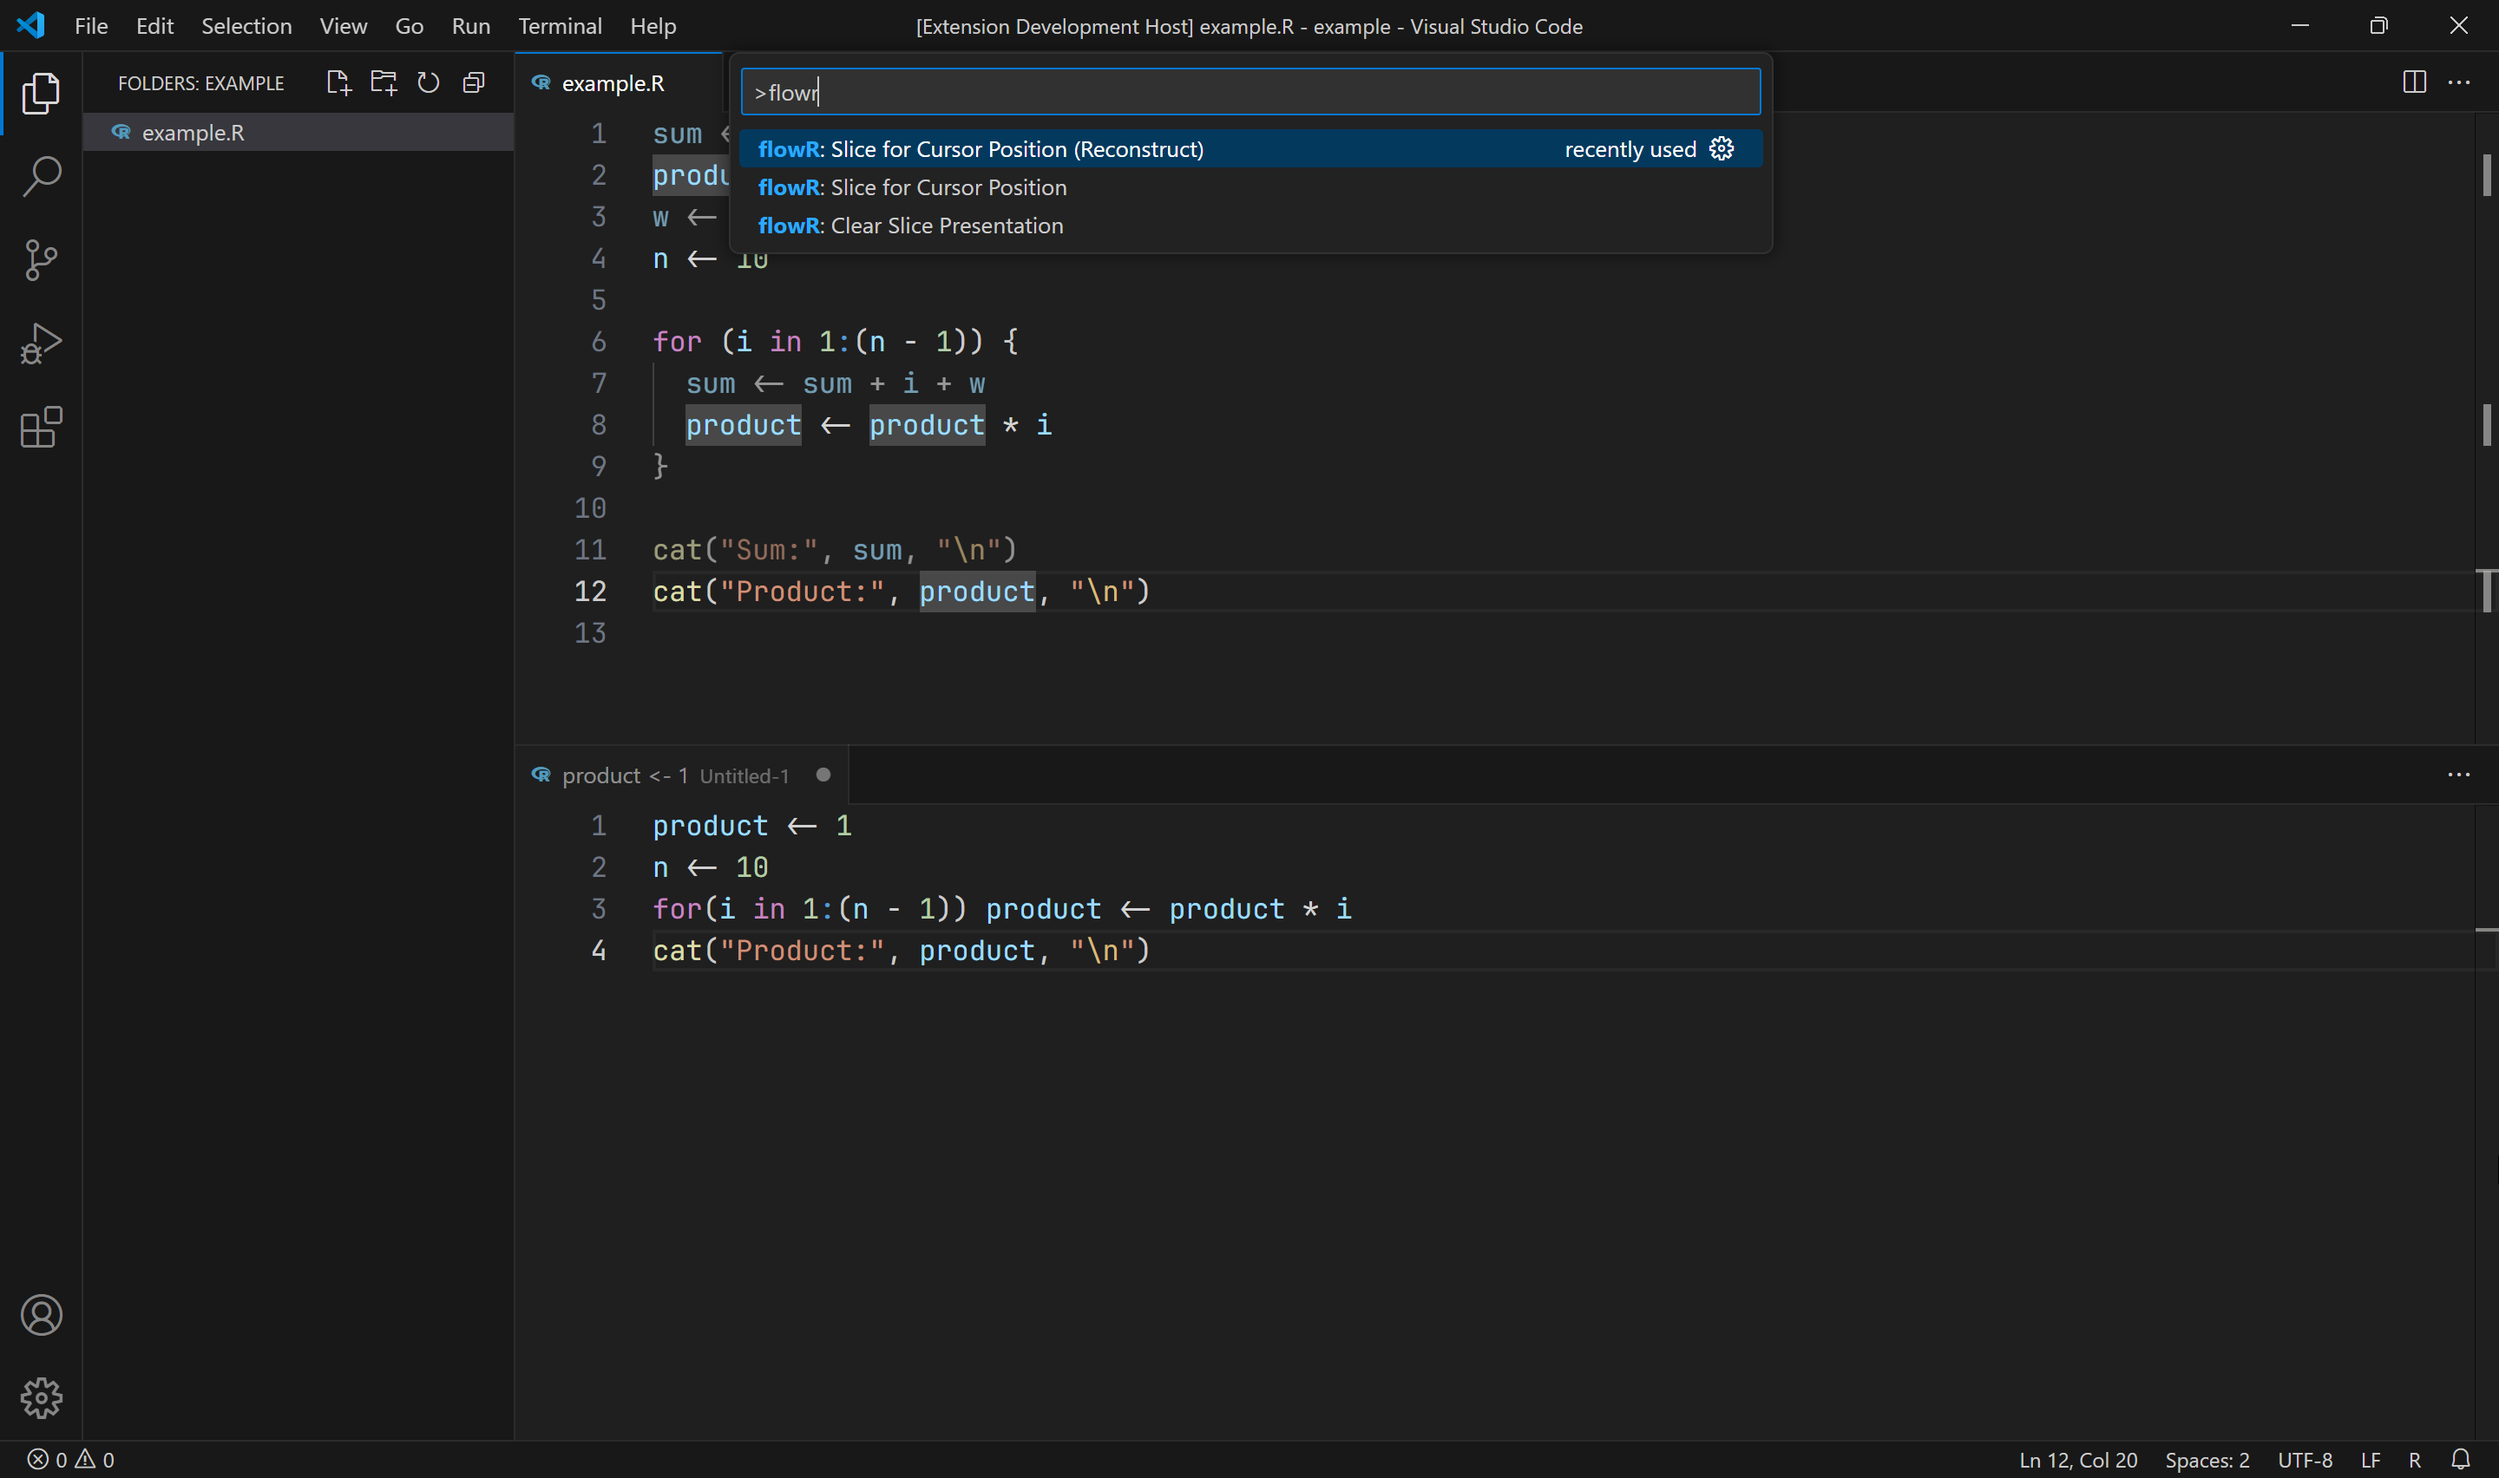
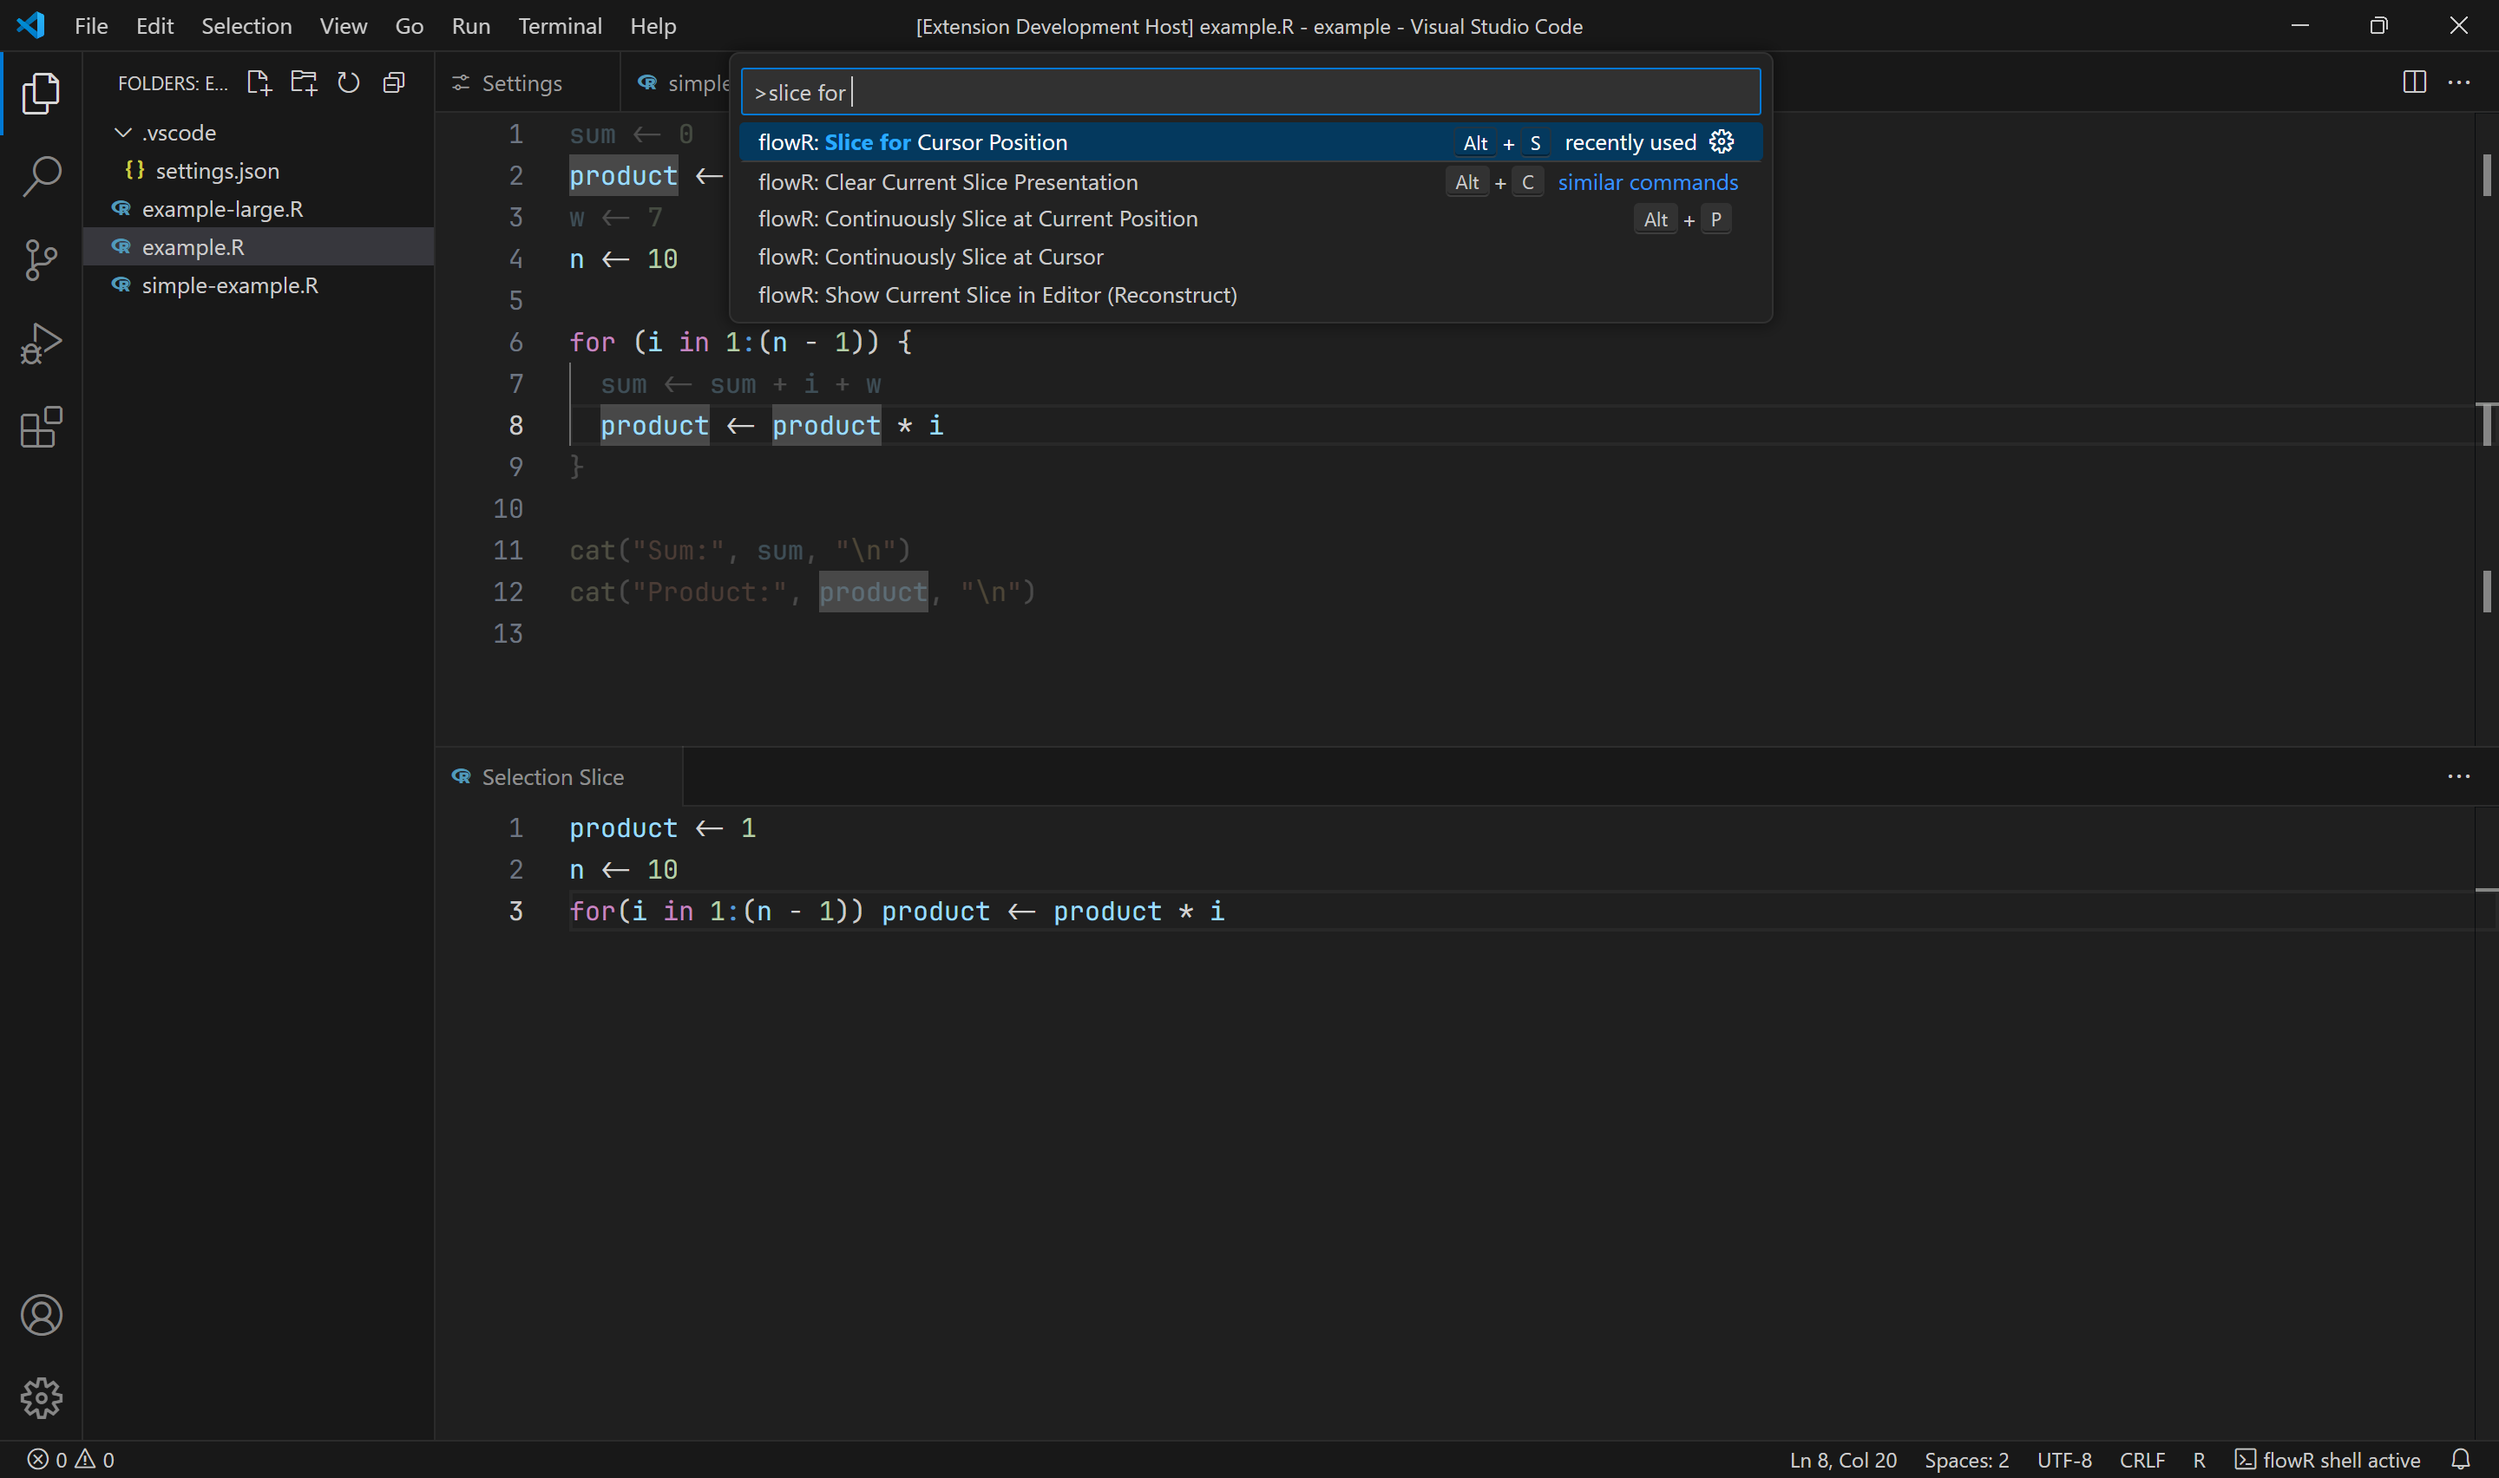
updated docs to reflect new changes

diff --git a/README.md b/README.md
@@ -14,9 +14,11 @@ Although it is not required, we recommend using the [R extension](https://market
 
 You can generate a [slice](https://github.com/Code-Inspect/flowr/wiki/Terminology#program-slice) of the currently highlighted variable in any R code by using the "Slice for Cursor Position" command. All code that is not part of the generated slice will then be grayed out.
 
-To clear the slice highlighting, use the "Clear Slice Presentation" command.
+Optionally, you can also use one of the two "Continuously Slice" options, which will automatically cause the slice to be updated when code changes occur or when the cursor is moved.
 
-You can also reconstruct a piece of code based on the slice of a variable by using the "Slice for Cursor Position (Reconstruct)" command. The reconstructed code will be opened in a new file.
+You can also view the reconstruction of a piece of code based on the current slice. The "Show Current Slice in Editor (Reconstruct)" command opens a view next to the current editor that will automatically update the reconstruction as you slice.
+
+To clear the slice highlighting, use the "Clear Slice Presentation" command.
 
 ![A screenshot of the extension being used to reconstruct a slice](media/reconstruct.png)
 
